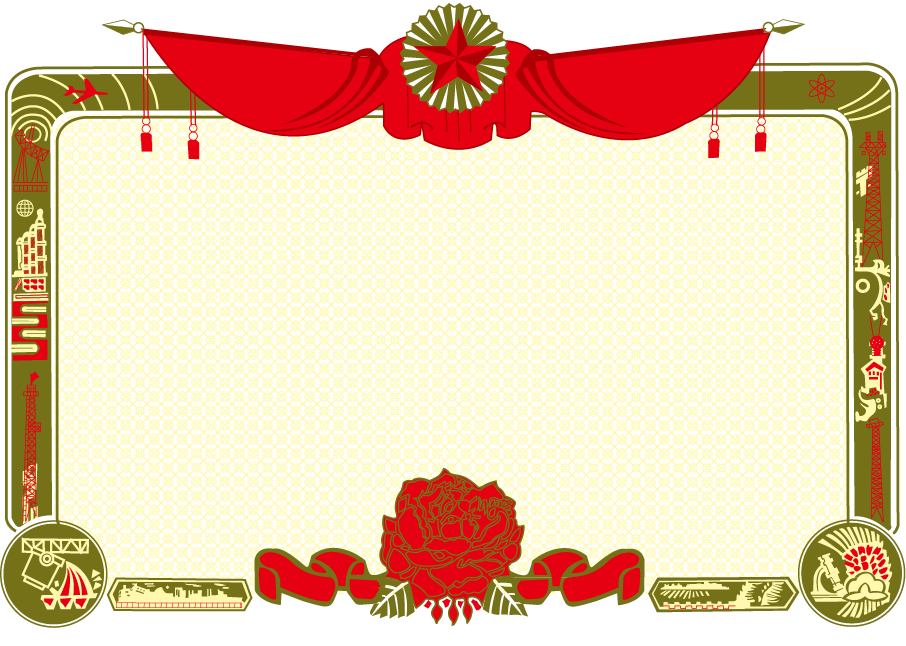
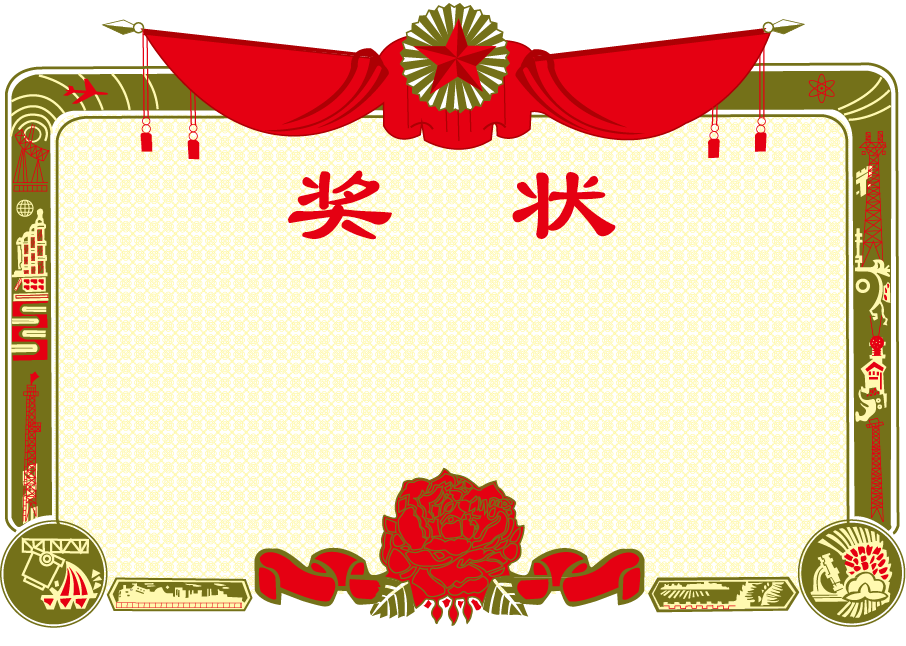
打卡证书增加“公章”

Changed region(s): [[0.3091, 0.2477, 0.4327, 0.3715], [0.5563, 0.2477, 0.6799, 0.3715]]

diff --git a/components/create-certificate/index.js b/components/create-certificate/index.js
@@ -92,9 +92,10 @@ Component({
       let item = this.data.signDetail
       let signTime = item.create_time.substring(0, 11)
       let address = item.address
-      const lineHeight = 80 / xs
-      let initTop = 360 / xs
+      const lineHeight = 70 / xs
+      let initTop = 450 / xs
       let initLeft = 140 / xs
+      let sealSize = 200 / xs
       this.setData({ loading: true })
       wx.createSelectorQuery()
         .in(this)
@@ -109,17 +110,17 @@ Component({
           ctx.fillStyle = "#FFFFFF";
           ctx.fillRect(0, 0, canvas.width, canvas.height);
           // 字体
-          ctx.font = "27px serif"
+          ctx.font = "24px serif"
           // 字体颜色
           ctx.fillStyle = "#707070";
           // 背景图
-          let img = canvas.createImage();
-          img.src = "../../static/share_bg.png";
-          img.onload = () => {
+          let bgImg = canvas.createImage();
+          bgImg.src = "../../static/share_bg.png";
+          bgImg.onload = () => {
             //img.complete表示图片是否加载完成，结果返回true和false;
             // consoleUtil.log(img.complete);//true
             // 背景图加载完成
-            ctx.drawImage(img, 0, 0, canvas.width, canvas.height);
+            ctx.drawImage(bgImg, 0, 0, canvas.width, canvas.height);
             // 用户名1
             ctx.fillText("尊敬的_________________：", initLeft, initTop)
             // 用户名2
@@ -137,10 +138,18 @@ Component({
             initTop += lineHeight
             // 说明
             ctx.fillText("特发此状，以资鼓励。", initLeft + 90 / xs, initTop)
-            initTop += 1.5 * lineHeight
+            initTop += 1.2 * lineHeight
             // 落款
             ctx.fillText("格格足迹小程序",  initLeft + 680 / xs, initTop)
-            this.drawPicture(canvas);
+            // 公章图
+            let sealImg = canvas.createImage();
+            sealImg.src = "../../static/seal.png";
+            sealImg.onload = () => {
+              ctx.drawImage(sealImg, initLeft + 760 / xs, initTop - 120 / xs, sealSize , sealSize);
+              // 生成完整图片
+              this.drawPicture(canvas);
+            };
+            
           };
         })
     },
